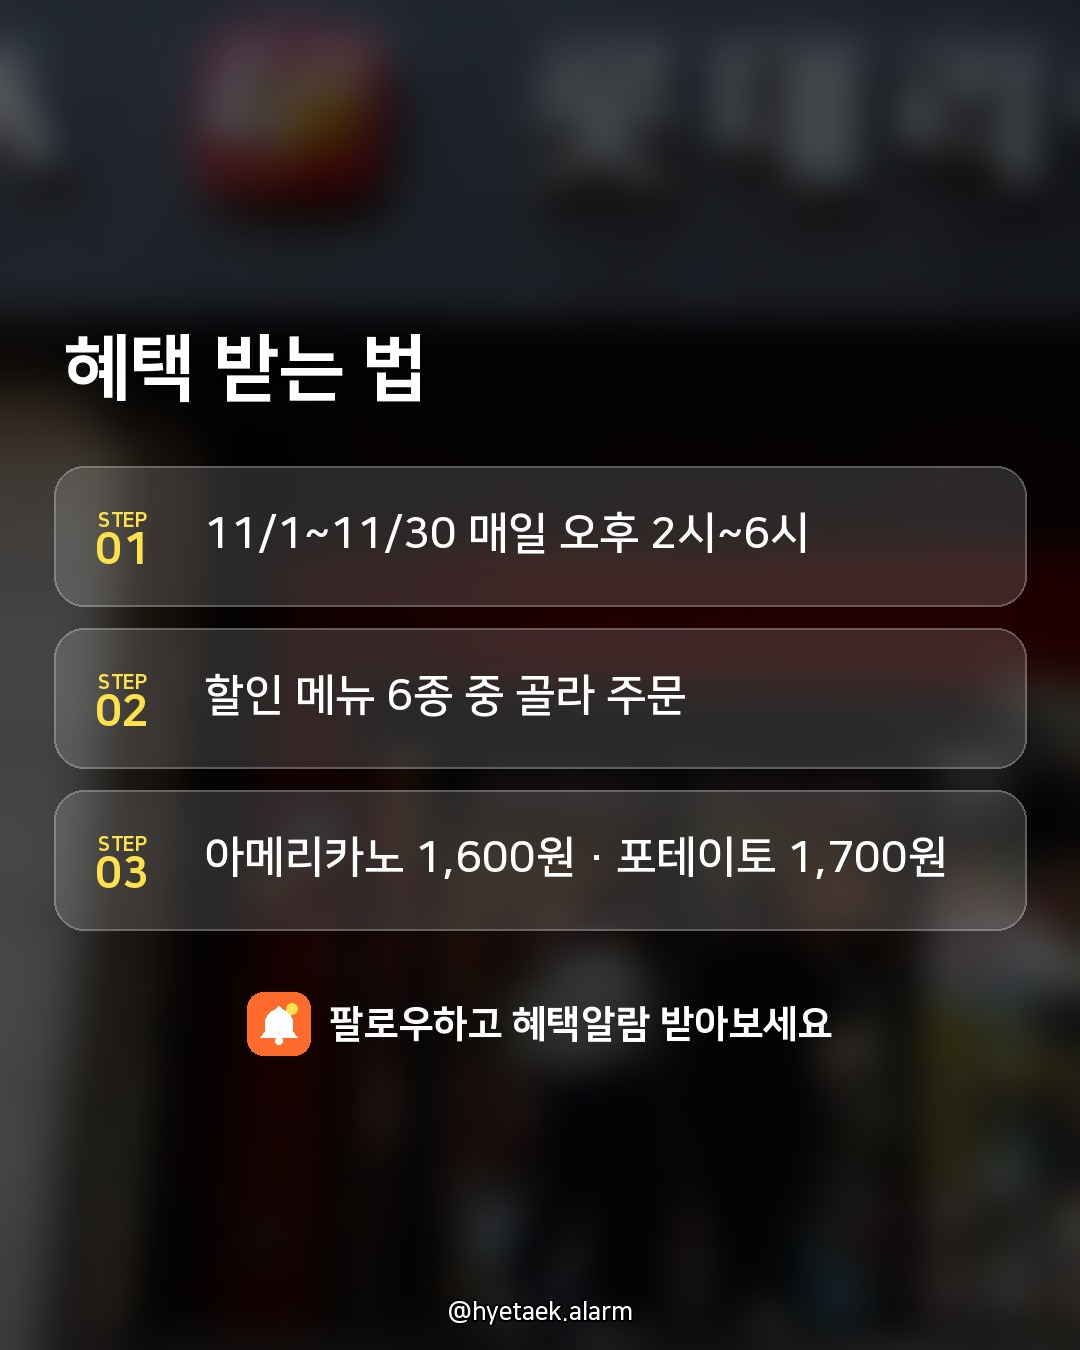
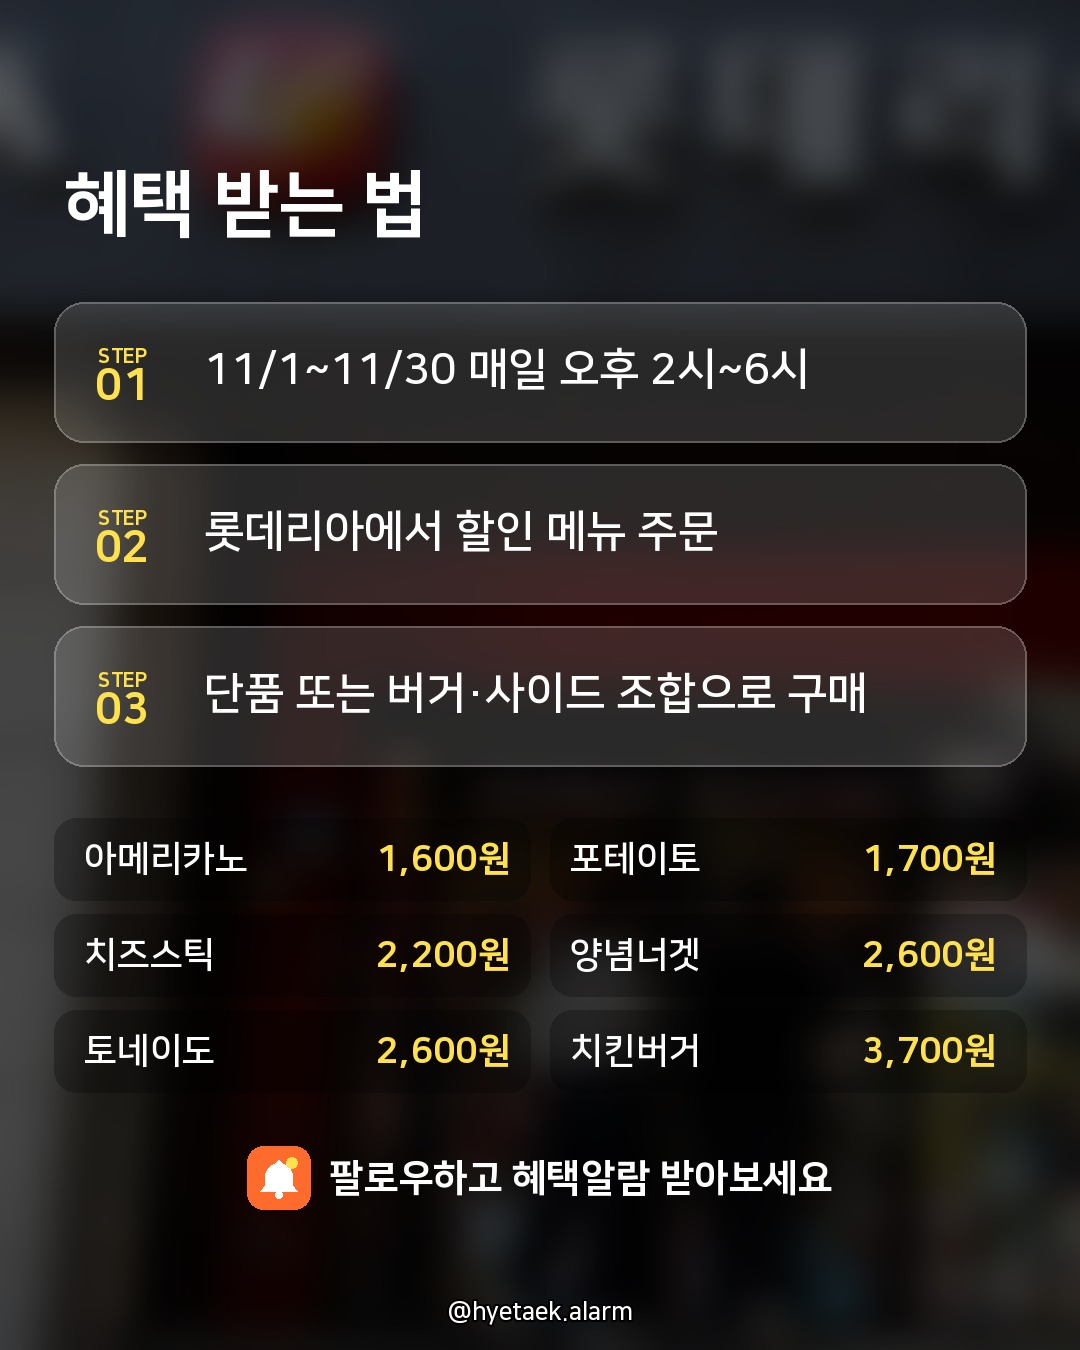
혜택알람 2장: STEP 아래 할인 제품 2열 표 (제품|할인가), 롯데리아 11/15 적용
Claude-Session: https://claude.ai/code/session_013eU9upJ36tdqKzB4UjrVYH

diff --git a/screendaily/cards.py b/screendaily/cards.py
@@ -1149,8 +1149,11 @@ def render_steps(post: Post, item: Item, idx: int, total: int, config: dict) -> 
     note_l = [wrap(t, nf, W - 2 * M - 40) for t in notes]
     title = item.title or "혜택 받는 법"
     follow = (config.get("outro") or {}).get("inline_follow", "")  # STEP 아래 아이콘 + 팔로우 한 줄
+    grid = len(info) >= 4   # 할인 제품 목록 (제품|할인·가격) → 2열 표
+    cell_h, grid_rows = 96, (len(info) + 1) // 2
+    info_h = (40 + grid_rows * cell_h) if grid else (40 + sum(block_h(vf, vl) + 18 for vl in info_l) if info else 0)
     content = line_h(tf) + 50 + sum(step_h) + 22 * max(0, len(steps) - 1) + (110 if follow else 0) \
-        + (40 + sum(block_h(vf, vl) + 18 for vl in info_l) if info else 0) \
+        + info_h \
         + (50 + sum(block_h(nf, nl) + 10 for nl in note_l) if notes else 0)
     top, bottom = 130, H - 110
     y = top + max(0, (bottom - top - content) // 2)
@@ -1167,7 +1170,23 @@ def render_steps(post: Post, item: Item, idx: int, total: int, config: dict) -> 
         d.text((cx, cy + 14), f"{i:02d}", font=font(EB, 44), fill=c["hl"], anchor="mm")
         draw_lines(d, lines, sf, M + 140, y + (h - block_h(sf, lines)) / 2, (255, 255, 255))
         y += h + 22
-    if info:
+    if grid:
+        y += 30
+        colw = (W - 2 * M + 20) / 2
+        nfnt, pfnt = font(B, 36), font(EB, 36)
+        for i, (k, v) in enumerate(info):
+            cx0 = M - 10 + (i % 2) * colw
+            cy0 = y + (i // 2) * cell_h
+            box = Image.new("RGBA", (W, H), (0, 0, 0, 0))
+            ImageDraw.Draw(box).rounded_rectangle((cx0 + (0 if i % 2 == 0 else 10), cy0, cx0 + colw - (10 if i % 2 == 0 else 0), cy0 + cell_h - 14),
+                                                  radius=22, fill=(0, 0, 0, 70))
+            canvas.alpha_composite(box)
+            d = ImageDraw.Draw(canvas)
+            mid = cy0 + (cell_h - 14) / 2
+            d.text((cx0 + 30, mid), k.strip(), font=nfnt, fill=(255, 255, 255), anchor="lm")
+            d.text((cx0 + colw - 30, mid), v.strip(), font=pfnt, fill=c["hl"], anchor="rm")
+        y += grid_rows * cell_h
+    elif info:
         y += 18
         for (k, _), vl in zip(info, info_l):
             d.text((M, y + 2), k.strip(), font=kf, fill=c["hl"])

diff --git a/docs/deals_daily.md b/docs/deals_daily.md
@@ -18,6 +18,7 @@ CLAUDE.md 의 혜택알람 규칙을 모두 지킨다. 아래는 그 순서다.
 2. `post.yml`: `draft: true` 로 시작 (사진 고르기 전 업로드 방지). `publish_at: "<오늘> 13:00"`.
    - `title`: `docs/cover_guide.md` 고정 지침대로. 첫 줄 통신사·멤버십·브랜드(10자 이하), 다음 1~2줄 핵심 혜택(줄당 12자 이하), 최대 3줄 (예 `"LG유플러스\n스타벅스\n아메리카노 1+1"`).
    - steps 3개, 그중 하나에 기간 `MM/DD~MM/DD` 필수.
+   - 할인 제품이 여러 개면 STEP 아래에 `---` 줄을 넣고 `제품|할인가` 를 한 줄씩 (4개 이상이면 2열 표로 자동 배치, 최대 6개 권장). 확인된 가격만.
    - `caption`: 이모지 없이 제목 한 줄 → 기간·대상·혜택·방법 → "세부 조건은 ○○에서 확인하세요." → "팔로우하고 혜택알람 받아보세요". 검색될 키워드(브랜드명·혜택명·무료/할인/쿠폰)를 첫 줄에.
    - `hashtags`: 브랜드·혜택 위주 4개.
    - 맨 위 주석에 확인 날짜와 출처 URL.
